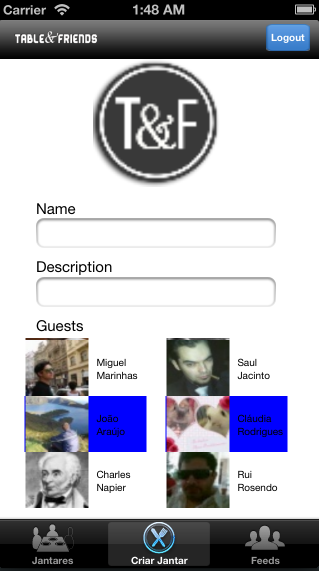
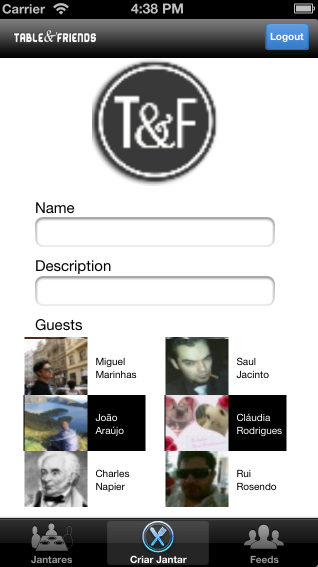
when selected, black background and white colour font in the custom collection cells

diff --git a/tableandfriends_iOS/tfCreateDinnerViewController.m b/tableandfriends_iOS/tfCreateDinnerViewController.m
@@ -102,12 +102,14 @@
 - (BOOL)collectionView:(UICollectionView *)collectionView shouldSelectItemAtIndexPath:(NSIndexPath *)indexPath
 {
     tfCollectionViewCell *cell = (tfCollectionViewCell*)[collectionView cellForItemAtIndexPath:indexPath];
+    cell.label.textColor = [UIColor blackColor];
     return cell.selectedT;
 }
 
 - (BOOL)collectionView:(UICollectionView *)collectionView shouldDeselectItemAtIndexPath:(NSIndexPath *)indexPath
 {
     tfCollectionViewCell *cell = (tfCollectionViewCell*)[collectionView cellForItemAtIndexPath:indexPath];
+    cell.label.textColor = [UIColor whiteColor];
     return !cell.selectedT;
 }
 
@@ -117,7 +119,7 @@
     tfCollectionViewCell *cell = [collectionViewForm dequeueReusableCellWithReuseIdentifier:@"Cell" forIndexPath:indexPath];
   
     UIView *view = [[UIView alloc] init];
-    [view setBackgroundColor: [UIColor blueColor]];
+    [view setBackgroundColor: [UIColor blackColor]];
     cell.selectedBackgroundView =view;
     
     int pos = 0;
